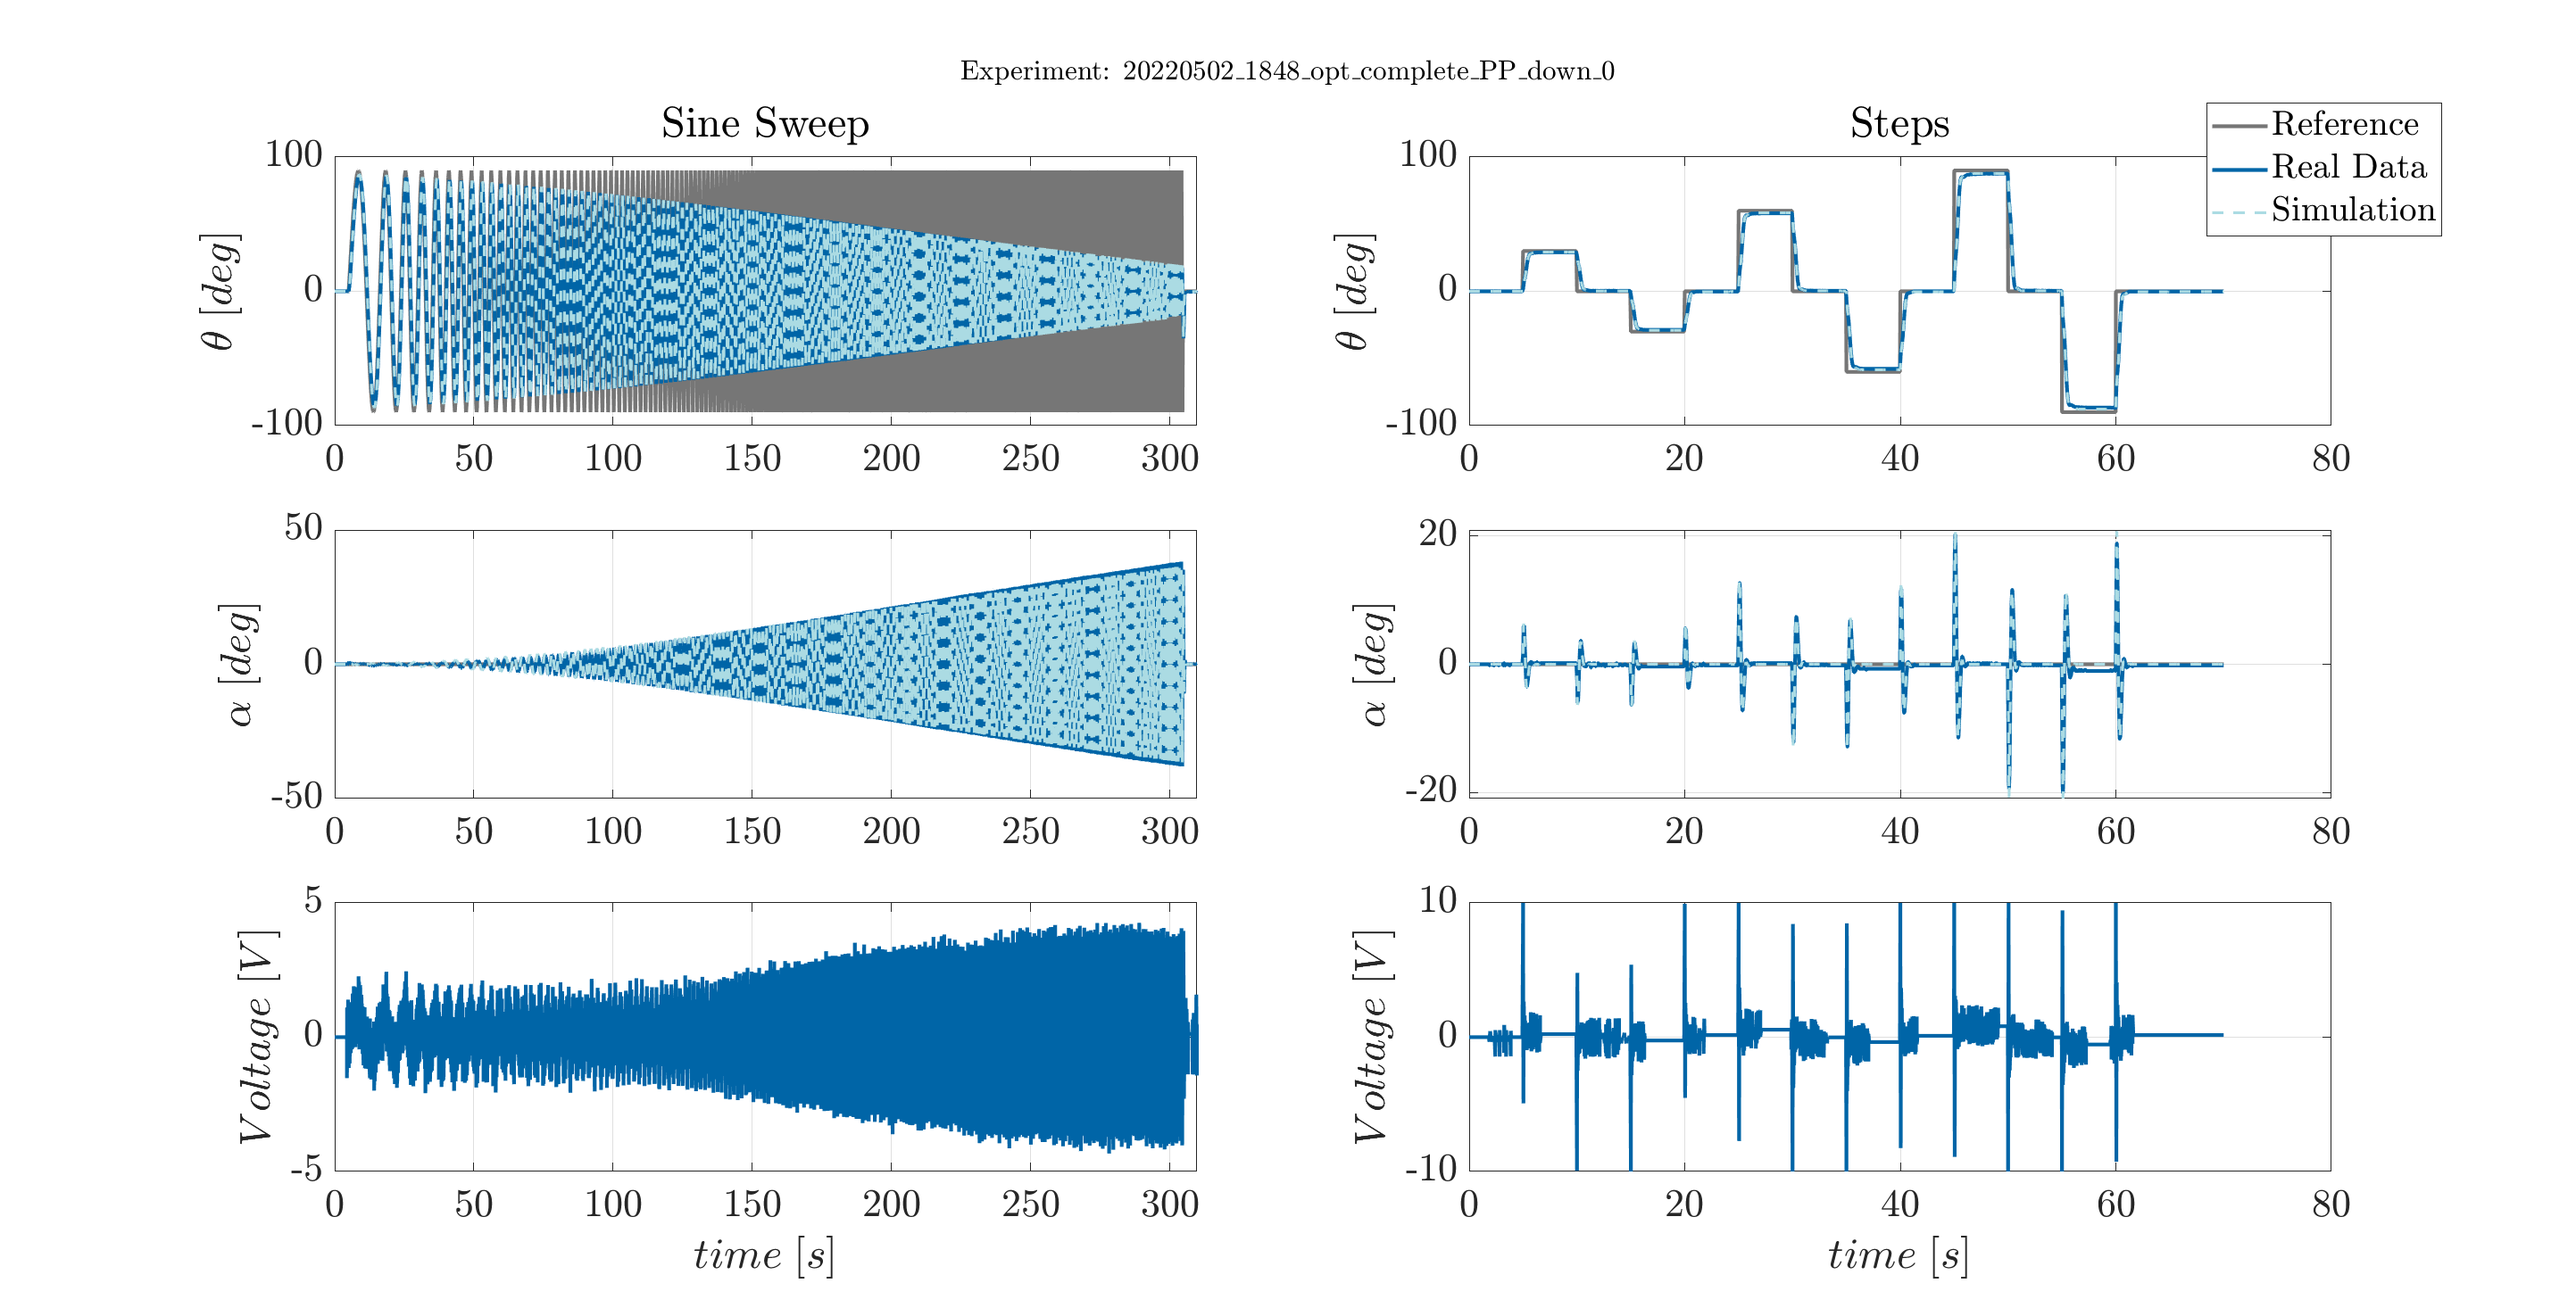
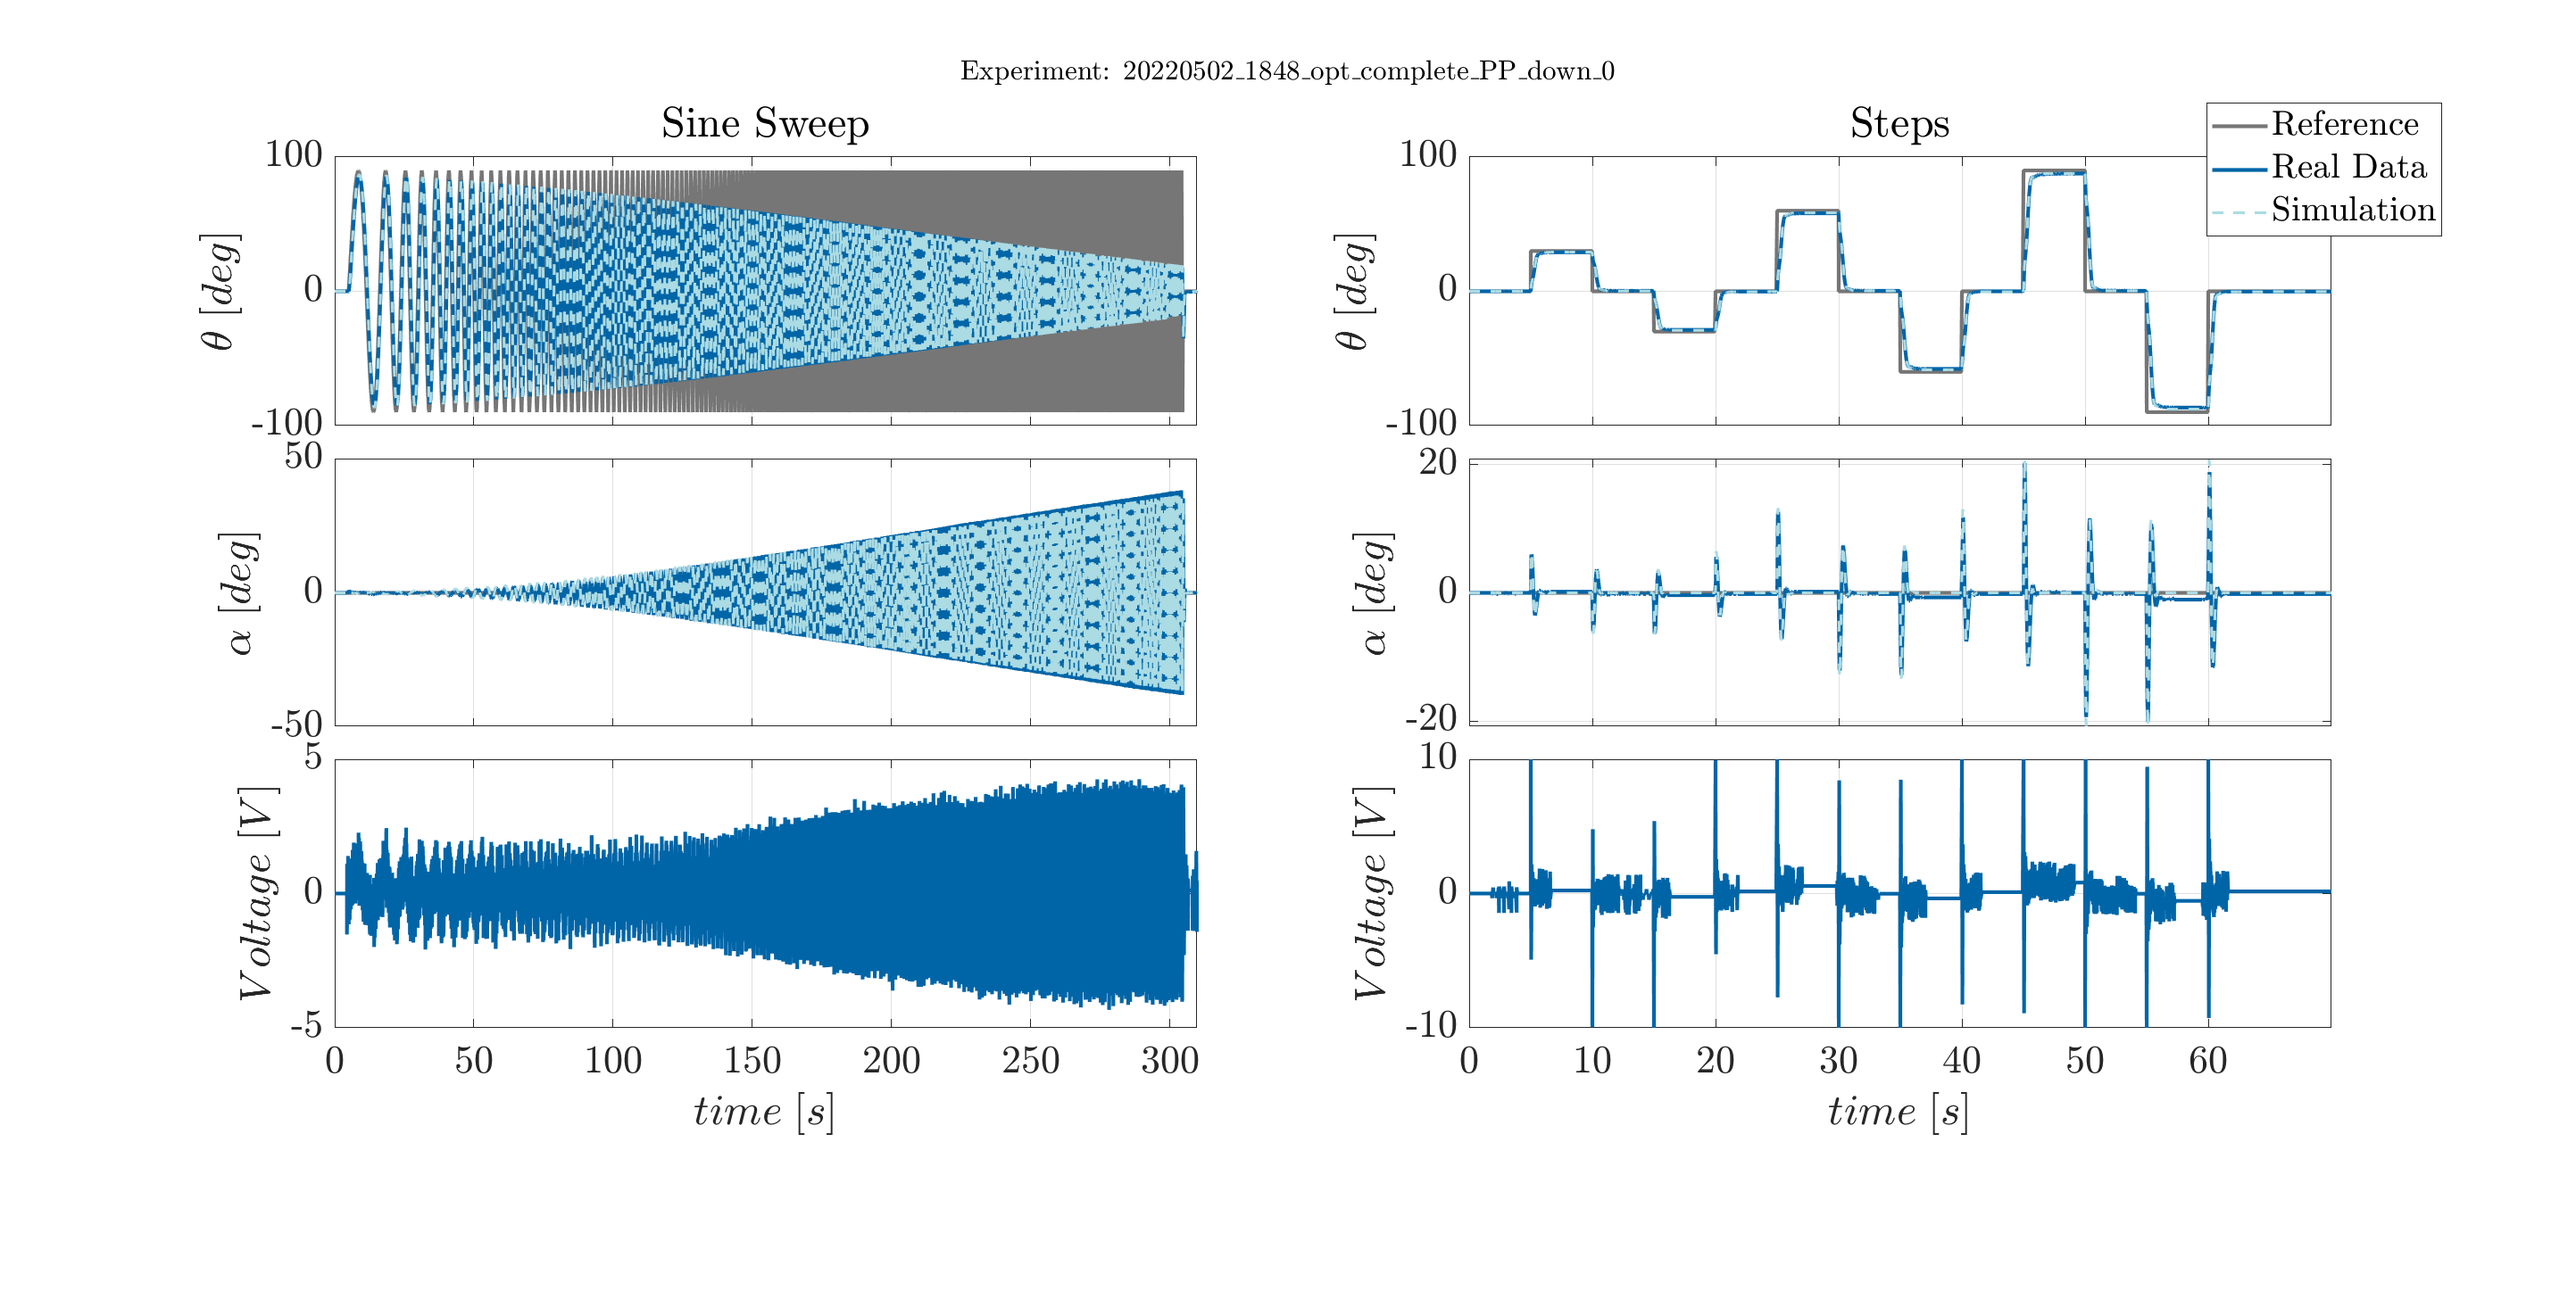
[ADD]: new fantastic graphic features

diff --git a/Scripts/m0602_report_plotter.m b/Scripts/m0602_report_plotter.m
@@ -76,11 +76,41 @@ reference_color = "#767676";
 data_color = colors.blue(4);
 simulation_color = colors.blue(1);
 
+large_plot_handle = @(figure_handle, filename_index) large_plot(figure_handle, filename_index, filename, dynamic_dataset, static_dataset, reference_color, data_color, simulation_color);
+zoomed_plot_handle = @(subplot_handles, title, dataset, start_time, end_time) zoomed_plot(subplot_handles, title, dataset, start_time, end_time, reference_color, data_color, simulation_color);
+
 for filename_idx = 1:length(filename)
+    fprintf('Filename: %s\n', filename(filename_idx));
+    save_figures = input('Would you like to save the figures [Y/N]: ', 's');
+    
+    % FIGURE 1
     f(1) = figure;
+    large_plot_handle(f(1), filename_idx);
+    
+    % FIGURE 2
+    f(2) = figure;
+    for i = 1:9
+        sub(i) = subplot(3,3,i); %#ok<SAGROW>
+    end
+    zoomed_plot_handle([sub(1), sub(4), sub(7)], "Start Sinesweep", dynamic_dataset{filename_idx}, 5, 45);
+    zoomed_plot_handle([sub(2), sub(5), sub(8)], "End Sinesweep", dynamic_dataset{filename_idx}, 298, 304);
+    zoomed_plot_handle([sub(3), sub(6), sub(9)], "Single Step", static_dataset{filename_idx}, 44, 49);
+    
+    if any(save_figures == ["Y", "Yes", "y", "YES", "yes"])
+        title_label = string(strrep(strrep(strrep(strrep(filename(filename_idx), ".mat", ""), "static", "complete"), "dynamic", "complete"), "_RESIM", ""));
+        saveas(f(1), fullfile(paths.report_images_folder, title_label + ".png"));
+        saveas(f(2), fullfile(paths.report_images_folder, title_label + "_zoomed.png"));
+    end
+    
+end
+
+
+function large_plot(figure_handle, filename_idx, filename, dynamic_dataset, static_dataset, reference_color, data_color, simulation_color)
+
+    figure(figure_handle);
     title_label = string(strrep(strrep(strrep(strrep(filename(filename_idx), ".mat", ""), "static", "complete"), "dynamic", "complete"), "_RESIM", ""));
     sgtitle("Experiment: " + strrep(title_label, "_", "\_"));
-
+    
     sub(1) = subplot(3,2,1); hold on;
     title('Sine Sweep');
     if any(fields(dynamic_dataset{filename_idx}) == "theta_ref")
@@ -89,6 +119,7 @@ for filename_idx = 1:length(filename)
     plot(dynamic_dataset{filename_idx}.time, dynamic_dataset{filename_idx}.theta*180/pi, 'color', data_color, 'DisplayName', 'Real Data');
     plot(dynamic_dataset{filename_idx}.time, dynamic_dataset{filename_idx}.theta_sim*180/pi, '--', 'color', simulation_color, 'DisplayName', 'Simulation', 'LineWidth', 1.5);
     ylabel('$\theta\;[deg]$');
+    set(gca,'Xticklabel',[]);
 
     sub(2) = subplot(3,2,3);
     if any(fields(dynamic_dataset{filename_idx}) == "alpha_ref")
@@ -97,16 +128,16 @@ for filename_idx = 1:length(filename)
     plot(dynamic_dataset{filename_idx}.time, dynamic_dataset{filename_idx}.alpha*180/pi, 'color', data_color, 'DisplayName', 'Real Data');
     plot(dynamic_dataset{filename_idx}.time, dynamic_dataset{filename_idx}.alpha_sim*180/pi, '--', 'color', simulation_color, 'DisplayName', 'Simulation', 'LineWidth', 1.5);
     ylabel('$\alpha\;[deg]$');
-
+    set(gca,'Xticklabel',[]);
+    
     sub(3) = subplot(3,2,5);
     plot(dynamic_dataset{filename_idx}.time, dynamic_dataset{filename_idx}.voltage, 'color', data_color, 'DisplayName', 'Voltage'); hold on; grid on;
     ylabel('$Voltage\;[V]$');
     xlabel('$time\;[s]$');
-
     linkaxes(sub, 'x');
-    clearvars sub;
+    xlim([dynamic_dataset{filename_idx}.time(1), dynamic_dataset{filename_idx}.time(end)]);
     
-    sub(1) = subplot(3,2,2); hold on;
+    sub(4) = subplot(3,2,2); hold on;
     title('Steps');
     if any(fields(dynamic_dataset{filename_idx}) == "theta_ref")
         plot(static_dataset{filename_idx}.time, static_dataset{filename_idx}.theta_ref*180/pi, 'color', reference_color, 'DisplayName', 'Reference'); grid on;
@@ -115,22 +146,83 @@ for filename_idx = 1:length(filename)
     plot(static_dataset{filename_idx}.time, static_dataset{filename_idx}.theta_sim*180/pi, '--', 'color', simulation_color, 'DisplayName', 'Simulation', 'LineWidth', 1.5);
     ylabel('$\theta\;[deg]$');
     legend('Position',[0.856442789599488,0.819417203330112,0.091662336339736,0.10204690470116]);
+    set(gca,'Xticklabel',[]);
 
-    sub(2) = subplot(3,2,4);
+    sub(5) = subplot(3,2,4);
     if any(fields(static_dataset{filename_idx}) == "alpha_ref")
         plot(static_dataset{filename_idx}.time, static_dataset{filename_idx}.alpha_ref*180/pi, 'color', reference_color, 'DisplayName', 'Reference'); hold on; grid on;
     end
     plot(static_dataset{filename_idx}.time, static_dataset{filename_idx}.alpha*180/pi, 'color', data_color, 'DisplayName', 'Real Data');
     plot(static_dataset{filename_idx}.time, static_dataset{filename_idx}.alpha_sim*180/pi, '--', 'color', simulation_color, 'DisplayName', 'Simulation', 'LineWidth', 1.5);
     ylabel('$\alpha\;[deg]$');
+    set(gca,'Xticklabel',[]);
 
-    sub(3) = subplot(3,2,6);
+    sub(6) = subplot(3,2,6);
     plot(static_dataset{filename_idx}.time, static_dataset{filename_idx}.voltage, 'color', data_color, 'DisplayName', 'Voltage'); hold on; grid on;
     ylabel('$Voltage\;[V]$');
     xlabel('$time\;[s]$');
 
-    linkaxes(sub, 'x');
-    clearvars sub;
+    linkaxes(sub(4:6), 'x');
+    xlim([static_dataset{filename_idx}.time(1), static_dataset{filename_idx}.time(end)]);
+    drawnow;
     
-    saveas(f(1), fullfile(paths.report_images_folder, title_label + ".png"));
+    tmp = get(sub(1), 'Position');
+    left_pos = tmp(1);
+    top_pos = tmp(2);
+    width = tmp(3);
+    height = tmp(4);
+    spacing = 0.025;
+    set(sub(2), 'Position', [left_pos, top_pos-height-spacing, width, height]);
+    set(sub(3), 'Position', [left_pos, top_pos-2*height-2*spacing, width, height]);
+    tmp = get(sub(4), 'Position');
+    left_pos = tmp(1);
+    top_pos = tmp(2);
+    width = tmp(3);
+    height = tmp(4);
+    set(sub(5), 'Position', [left_pos, top_pos-height-spacing, width, height]);
+    set(sub(6), 'Position', [left_pos, top_pos-2*height-2*spacing, width, height]);
+    
+end
+
+function zoomed_plot(subplot_handles, title_label, dataset, start_time, end_time, reference_color, data_color, simulation_color)
+    
+    range = dataset.time >= start_time & dataset.time <= end_time;
+    
+    tmp = get(subplot_handles(1), 'Position');
+    left_pos = tmp(1);
+    top_pos = tmp(2);
+    width = tmp(3);
+    height = tmp(4);
+    spacing = 0.025;
+    subplot(subplot_handles(1)); hold on;
+    title(title_label);
+    
+    if any(fields(dataset) == "theta_ref")
+        plot(dataset.time(range), dataset.theta_ref(range)*180/pi, 'color', reference_color, 'DisplayName', 'Reference'); grid on;
+    end
+    plot(dataset.time(range), dataset.theta(range)*180/pi, 'color', data_color, 'DisplayName', 'Real Data');
+    plot(dataset.time(range), dataset.theta_sim(range)*180/pi, '--', 'color', simulation_color, 'DisplayName', 'Simulation', 'LineWidth', 1.5);
+    ylabel('$\theta\;[deg]$');
+    set(gca,'Xticklabel',[]);
+
+    subplot(subplot_handles(2));
+    if any(fields(dataset) == "alpha_ref")
+        plot(dataset.time(range), dataset.alpha_ref(range)*180/pi, 'color', reference_color, 'DisplayName', 'Reference'); hold on; grid on;
+    end
+    plot(dataset.time(range), dataset.alpha(range)*180/pi, 'color', data_color, 'DisplayName', 'Real Data');
+    plot(dataset.time(range), dataset.alpha_sim(range)*180/pi, '--', 'color', simulation_color, 'DisplayName', 'Simulation', 'LineWidth', 1.5);
+    ylabel('$\alpha\;[deg]$');
+    set(gca,'Xticklabel',[]);
+
+    subplot(subplot_handles(3));
+    plot(dataset.time(range), dataset.voltage(range), 'color', data_color, 'DisplayName', 'Voltage'); hold on; grid on;
+    ylabel('$Voltage\;[V]$');
+    xlabel('$time\;[s]$');
+    
+    linkaxes(subplot_handles, 'x');
+    xlim([start_time, end_time]);
+    drawnow;
+    
+    set(subplot_handles(2), 'Position', [left_pos, top_pos-height-spacing, width, height]);
+    set(subplot_handles(3), 'Position', [left_pos, top_pos-2*height-2*spacing, width, height]);
 end
